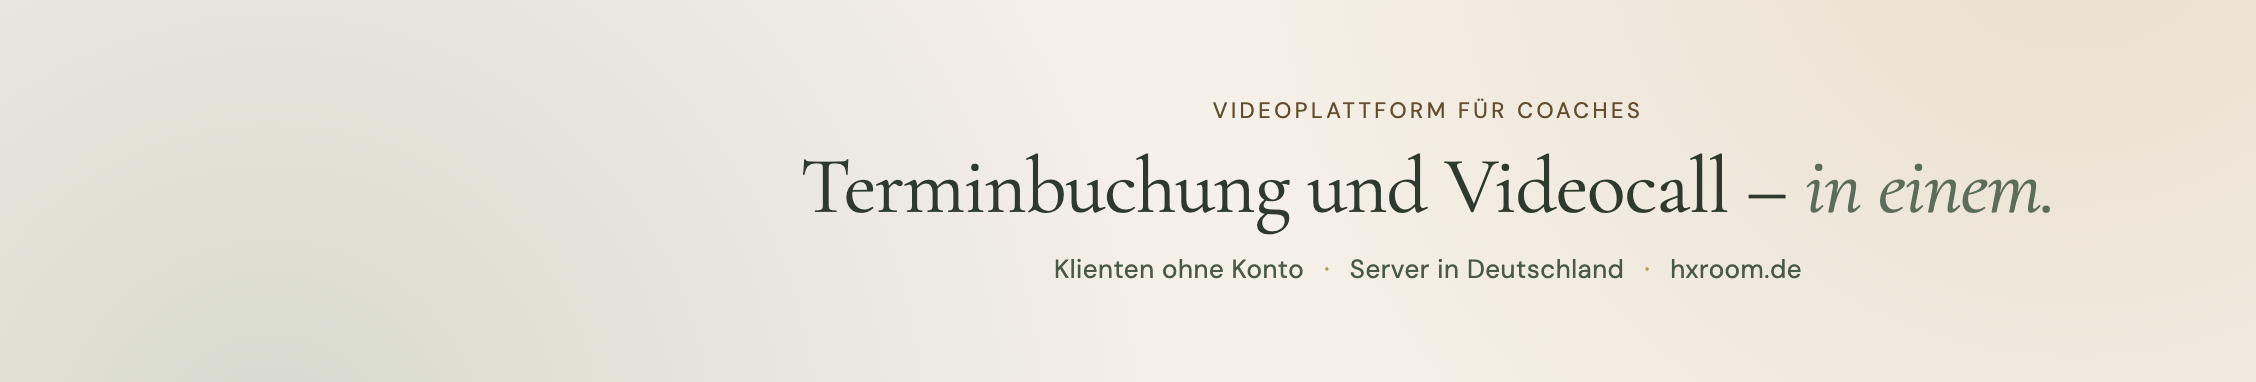
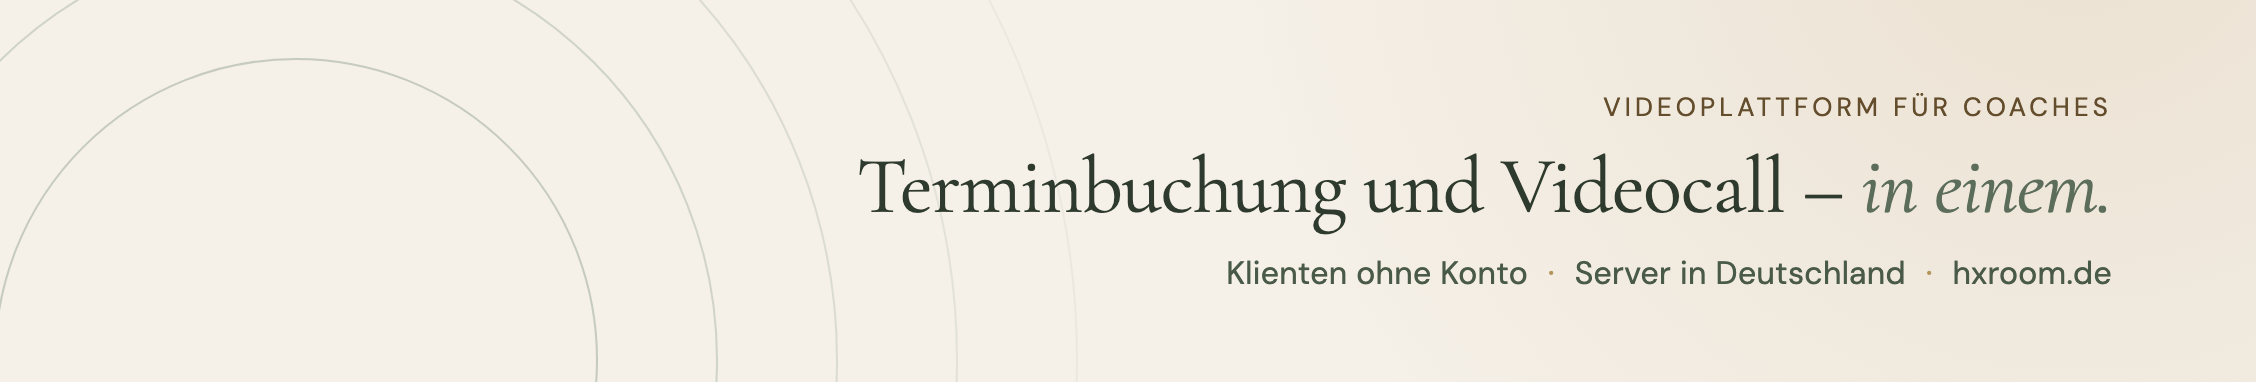
Marketing: LinkedIn-Titelbild mit Ringen um das Seitenlogo
Vom Mittelpunkt des Seitenlogos, das LinkedIn links unten über das Titelbild legt, laufen feine Salbei-Ringe nach rechts aus. Der Text steht jetzt rechtsbündig, Kennzeichen und Fakten sind größer. Beschreibung in doc/marketing/linkedin.md angepasst.

diff --git a/media/linkedin/banner.html b/media/linkedin/banner.html
@@ -1,7 +1,7 @@
 <!DOCTYPE html>
 <!-- Quelle für media/linkedin/hxroom-titelbild.png (1128 × 191, gerendert mit Faktor 2).
      Das Seitenlogo deckt links unten etwa das erste Viertel des Bildes ab (bis ~270 px).
-     Der Text steht deshalb mittig im Bereich rechts davon. -->
+     Von seiner Mitte laufen feine Ringe nach rechts aus; der Text steht rechtsbündig. -->
 <html lang="de">
 <head>
 <meta charset="utf-8">
@@ -22,17 +22,26 @@
   .banner {
     position: relative; overflow: hidden;
     width: 1128px; height: 191px;
-    box-sizing: border-box; padding-left: 300px;
-    background:
-      radial-gradient(circle at 12% 120%, rgba(139, 158, 138, 0.28), transparent 45%),
-      radial-gradient(circle at 92% -30%, rgba(181, 147, 90, 0.18), transparent 40%),
-      #F5F0E8;
-    display: flex; flex-direction: column; align-items: center; justify-content: center;
-    text-align: center;
+    box-sizing: border-box; padding-right: 72px;
+    background: #F5F0E8;
+    display: flex; flex-direction: column; align-items: flex-end; justify-content: center;
+    text-align: right;
     font-family: 'DM Sans', sans-serif;
   }
+  .glow {
+    position: absolute; inset: 0;
+    background: radial-gradient(circle at 92% -30%, rgba(181, 147, 90, 0.16), transparent 40%);
+  }
+  /* Mittelpunkt der Ringe = Mitte des Seitenlogos, wie LinkedIn es überlagert. */
+  .waves { position: absolute; left: 148px; top: 180px; width: 0; height: 0; }
+  .waves i {
+    position: absolute; border-radius: 50%; transform: translate(-50%, -50%);
+    width: var(--d); height: var(--d);
+    border: 1px solid rgba(139, 158, 138, var(--o));
+  }
+  .content { position: relative; display: flex; flex-direction: column; align-items: flex-end; }
   .eyebrow {
-    font-size: 11px; letter-spacing: 0.16em; text-transform: uppercase;
+    font-size: 13px; letter-spacing: 0.16em; text-transform: uppercase;
     color: #634d2c; margin-bottom: 10px;
   }
   h1 {
@@ -41,16 +50,26 @@
   }
   h1 em { font-style: italic; color: #5C6E5B; }
   .facts {
-    margin-top: 12px; font-size: 13px; color: #4a5a49; letter-spacing: 0.02em;
+    margin-top: 12px; font-size: 16px; color: #4a5a49; letter-spacing: 0.01em;
   }
   .facts span { margin: 0 10px; color: #B5935A; }
 </style>
 </head>
 <body>
   <div class="banner">
-    <div class="eyebrow">Videoplattform für Coaches</div>
-    <h1>Terminbuchung und Videocall – <em>in einem.</em></h1>
-    <div class="facts">Klienten ohne Konto<span>·</span>Server in Deutschland<span>·</span>hxroom.de</div>
+    <div class="glow"></div>
+    <div class="waves">
+      <i style="--d: 300px; --o: 0.45"></i>
+      <i style="--d: 420px; --o: 0.34"></i>
+      <i style="--d: 540px; --o: 0.24"></i>
+      <i style="--d: 660px; --o: 0.16"></i>
+      <i style="--d: 780px; --o: 0.09"></i>
+    </div>
+    <div class="content">
+      <div class="eyebrow">Videoplattform für Coaches</div>
+      <h1>Terminbuchung und Videocall – <em>in einem.</em></h1>
+      <div class="facts">Klienten ohne Konto<span>·</span>Server in Deutschland<span>·</span>hxroom.de</div>
+    </div>
   </div>
 </body>
 </html>

diff --git a/doc/marketing/linkedin.md b/doc/marketing/linkedin.md
@@ -96,7 +96,7 @@ Videoplattform für Coaches, Online-Coaching, Terminbuchung, Buchungsseite, Vide
 | Logo | `media/linkedin/hxroom-logo.png` | 800 × 800 (LinkedIn: mind. 400 × 400) | `media/linkedin/logo.html` |
 | Titelbild | `media/linkedin/hxroom-titelbild.png` | 2256 × 382 (LinkedIn: 1128 × 191) | `media/linkedin/banner.html` |
 
-Das Logo zeigt dasselbe Motiv wie `Logo.vue` in `packages/ui`: einen Kreis im Salbei-Verlauf mit Kamera-Icon auf Creme. Das Titelbild nutzt Schriften und Farben des Themes (`packages/ui/theme`). Links unten legt LinkedIn das Seitenlogo über das Titelbild und verdeckt dabei etwa das erste Viertel. Der Text steht deshalb mittig im Bereich rechts davon (`padding-left: 300px` bei 1128 px Breite).
+Das Logo zeigt dasselbe Motiv wie `Logo.vue` in `packages/ui`: einen Kreis im Salbei-Verlauf mit Kamera-Icon auf Creme. Das Titelbild nutzt Schriften und Farben des Themes (`packages/ui/theme`). Links unten legt LinkedIn das Seitenlogo über das Titelbild und verdeckt dabei etwa das erste Viertel. Von der Mitte des Logos laufen feine Salbei-Ringe nach rechts aus und betten es ein; der Text steht rechtsbündig mit 72 px Rand.
 
 Die HTML-Dateien öffnen die Schriften relativ aus `packages/ui/theme/fonts`. Neu gerendert wird mit Playwright im Faktor 2: das Element `.tile` bzw. `.banner` als Screenshot.
 
